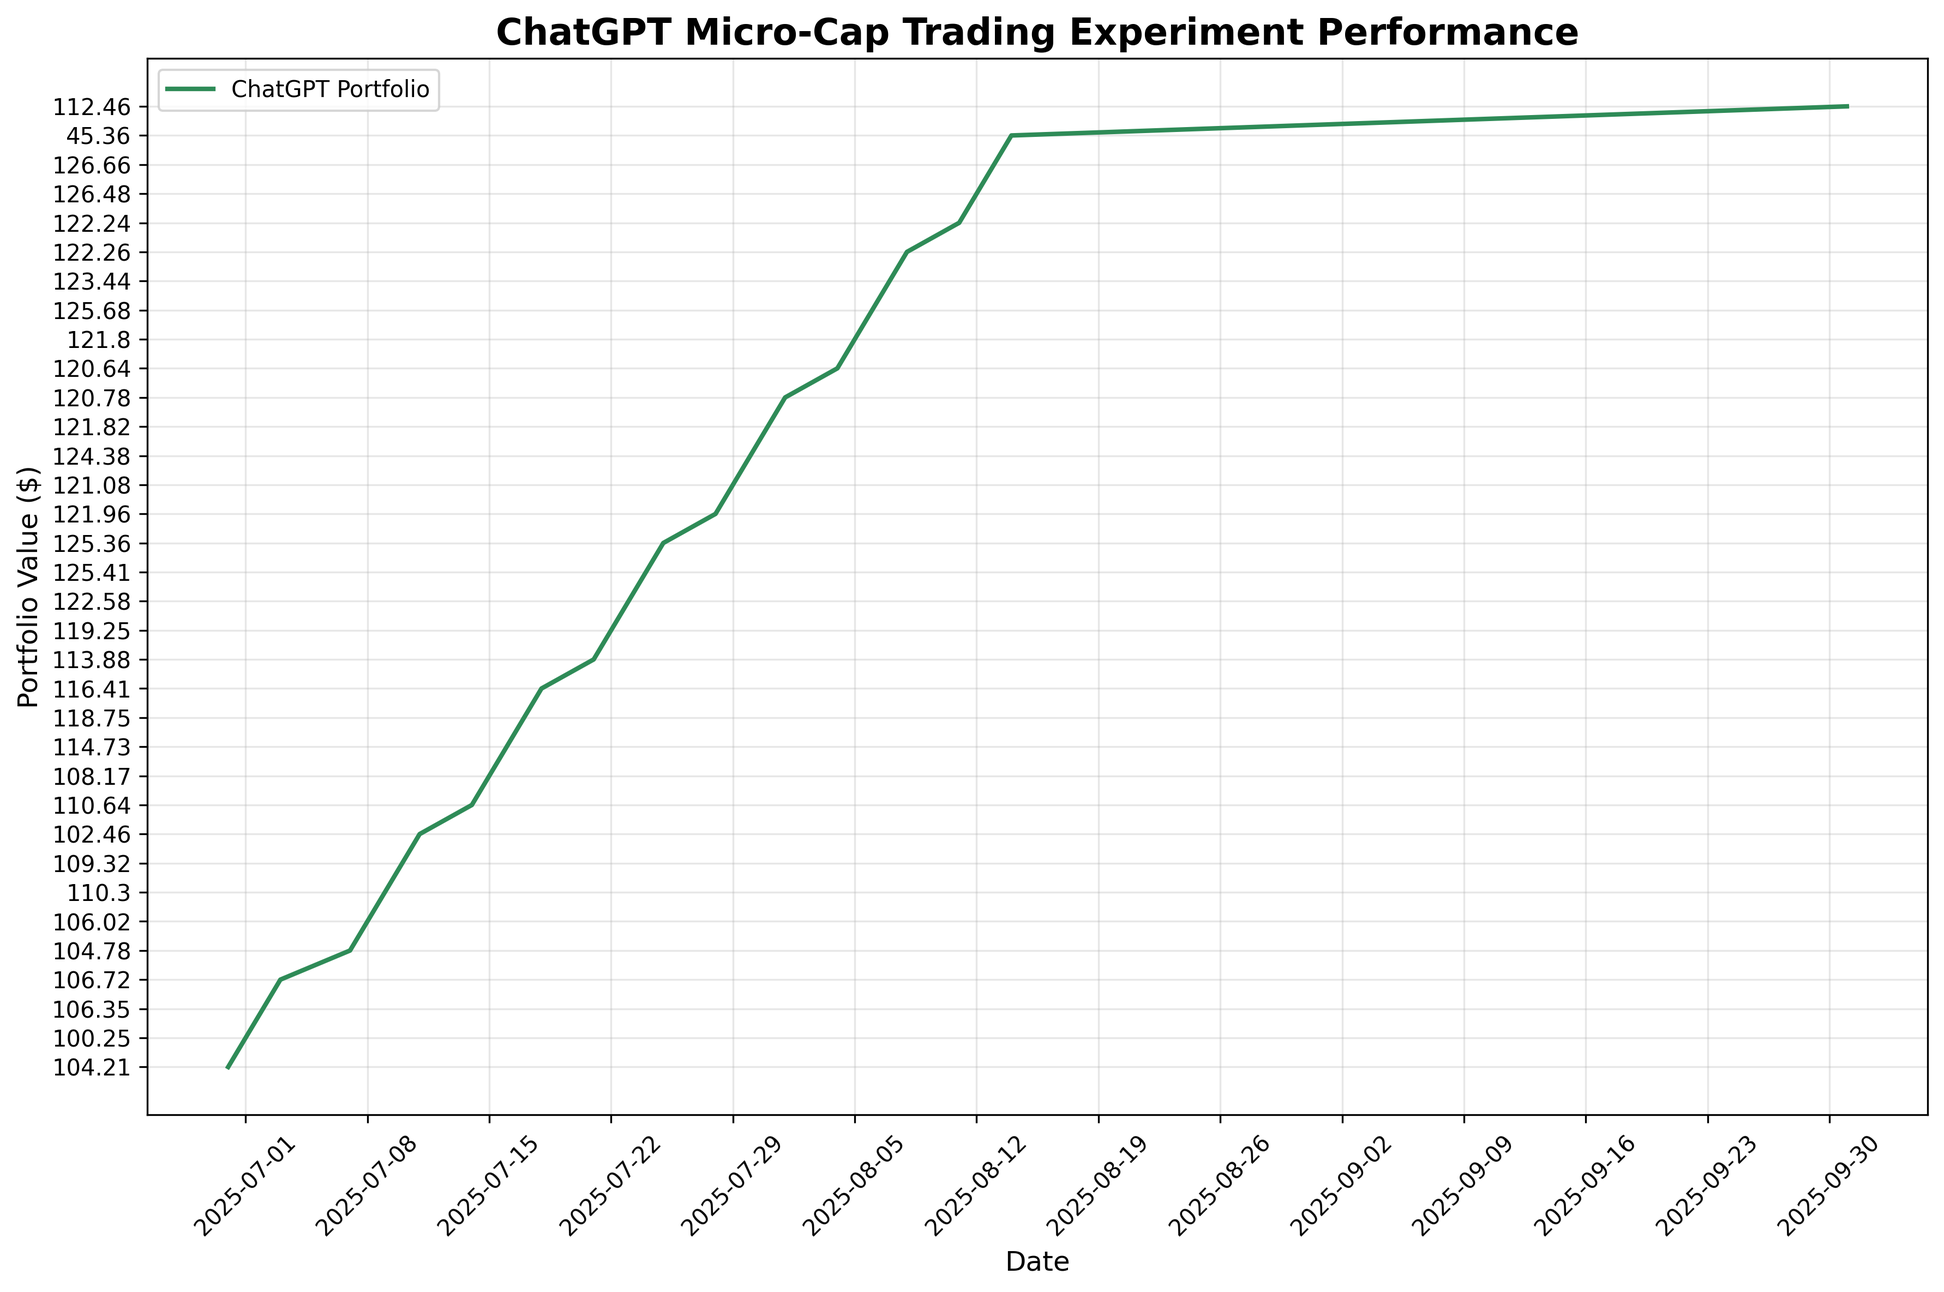
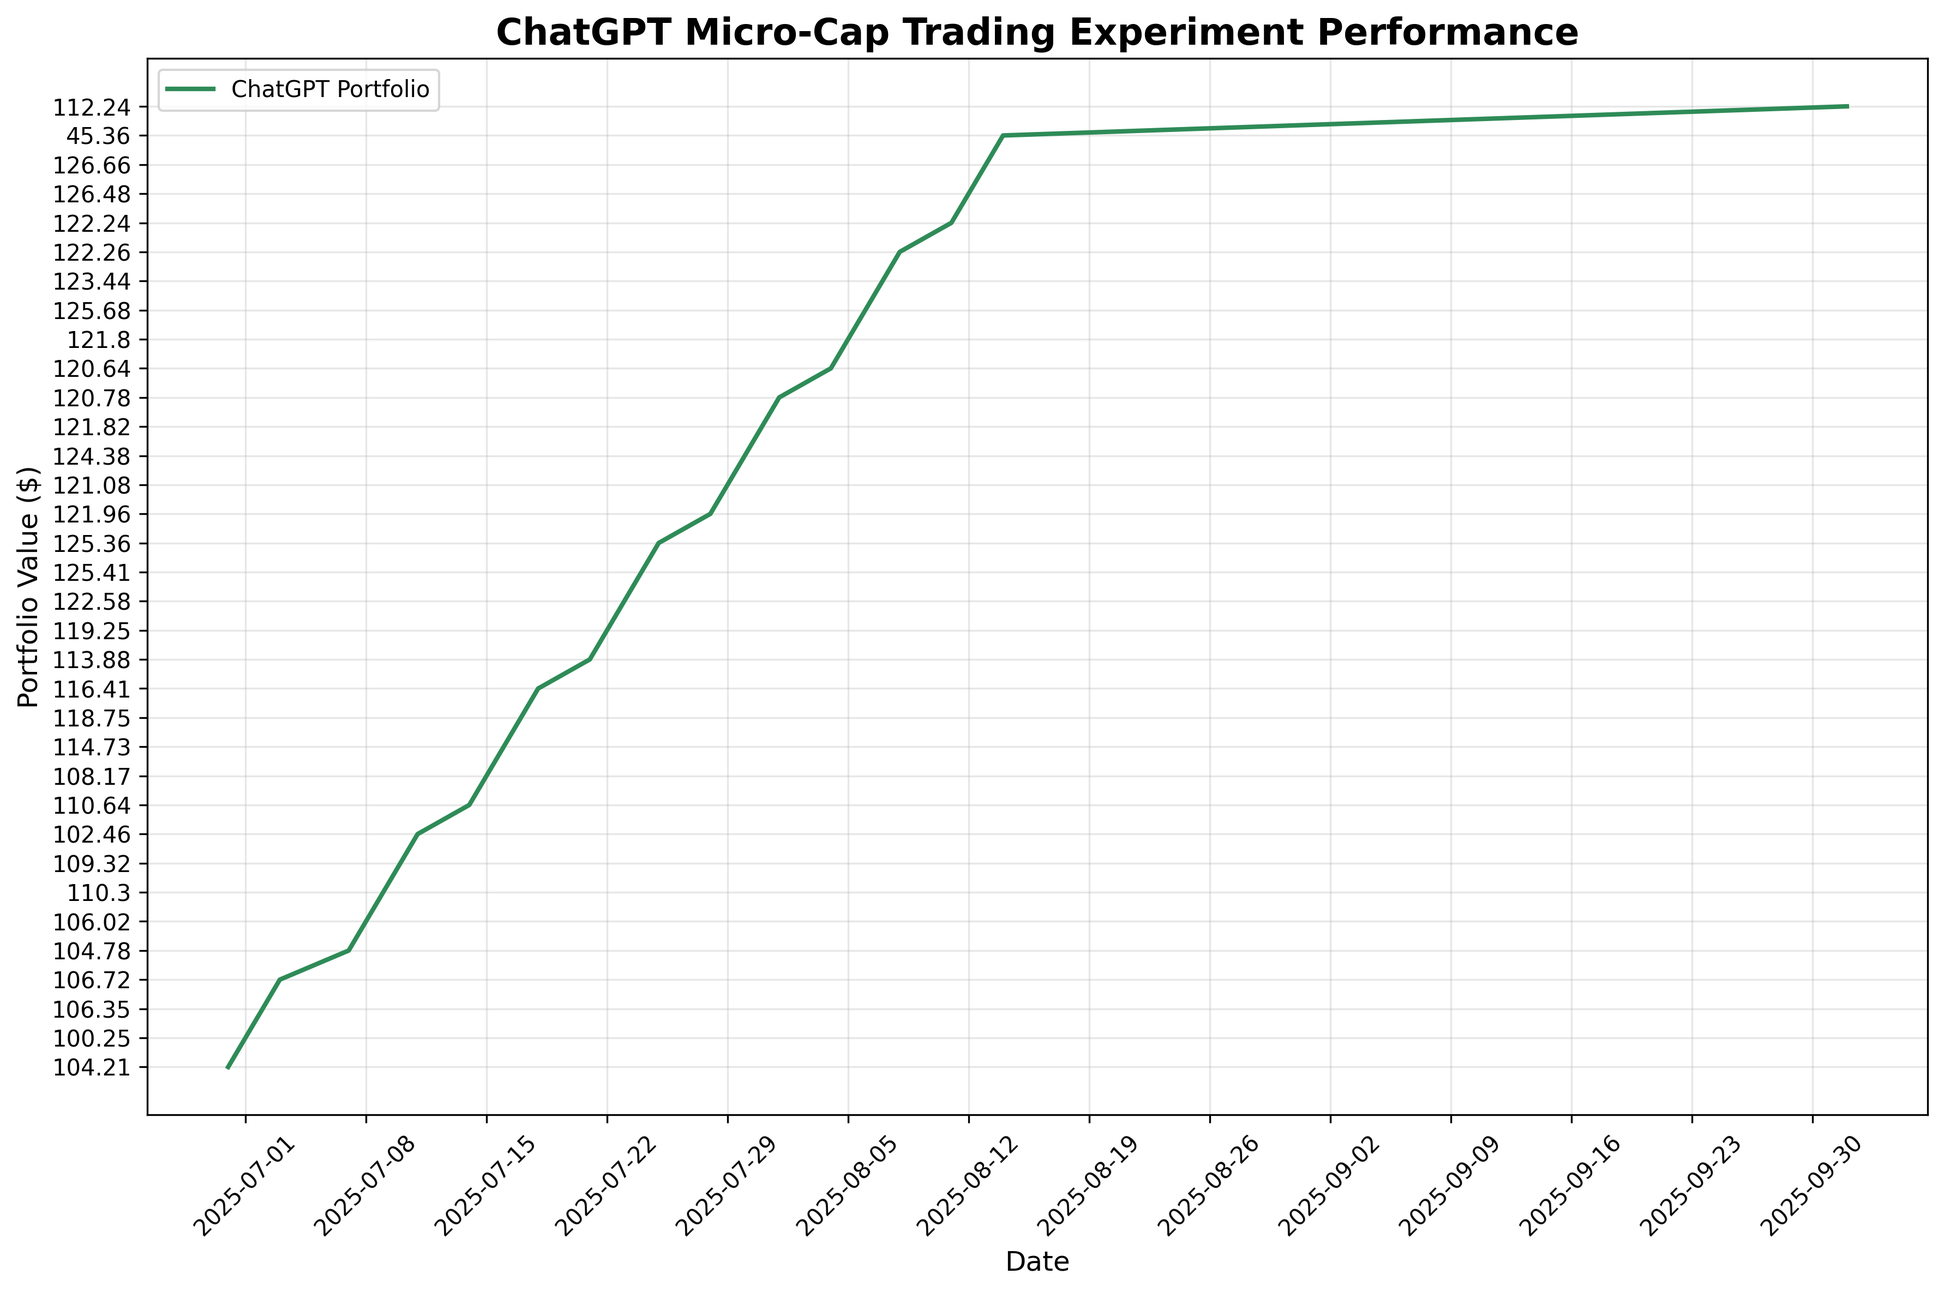
deploy: e15cad030d70fb3fbb51f9df6e22fa70c2f175c0

diff --git a/index.html b/index.html
@@ -105,7 +105,7 @@
                 <div class="stat-label">Total Trades</div>
             </div>
             <div class="stat-card">
-                <div class="stat-value" id="last-updated">2025-10-01</div>
+                <div class="stat-value" id="last-updated">2025-10-02</div>
                 <div class="stat-label">Last Updated</div>
             </div>
         </div>
@@ -160,7 +160,7 @@
     
     <script>
         // Portfolio data
-        const portfolioData = JSON.parse("[{&quot;Date&quot;: &quot;2025-08-11&quot;, &quot;Ticker&quot;: &quot;ABEO&quot;, &quot;Shares&quot;: 4.0, &quot;Buy Price&quot;: 5.77, &quot;Cost Basis&quot;: 23.08, &quot;Stop Loss&quot;: 4.9, &quot;Current Price&quot;: 6.28, &quot;Total Value&quot;: 25.12, &quot;PnL&quot;: 2.04, &quot;Action&quot;: &quot;HOLD&quot;, &quot;Cash Balance&quot;: NaN, &quot;Total Equity&quot;: NaN}, {&quot;Date&quot;: &quot;2025-08-11&quot;, &quot;Ticker&quot;: &quot;ACTU&quot;, &quot;Shares&quot;: 6.0, &quot;Buy Price&quot;: 5.75, &quot;Cost Basis&quot;: 34.5, &quot;Stop Loss&quot;: 4.89, &quot;Current Price&quot;: 8.01, &quot;Total Value&quot;: 48.06, &quot;PnL&quot;: 13.56, &quot;Action&quot;: &quot;HOLD&quot;, &quot;Cash Balance&quot;: NaN, &quot;Total Equity&quot;: NaN}, {&quot;Date&quot;: &quot;2025-08-11&quot;, &quot;Ticker&quot;: &quot;ESPR&quot;, &quot;Shares&quot;: 2.0, &quot;Buy Price&quot;: 1.91, &quot;Cost Basis&quot;: 3.82, &quot;Stop Loss&quot;: 1.6, &quot;Current Price&quot;: 1.85, &quot;Total Value&quot;: 3.7, &quot;PnL&quot;: -0.12, &quot;Action&quot;: &quot;HOLD&quot;, &quot;Cash Balance&quot;: NaN, &quot;Total Equity&quot;: NaN}, {&quot;Date&quot;: &quot;2025-08-11&quot;, &quot;Ticker&quot;: &quot;TOTAL&quot;, &quot;Shares&quot;: NaN, &quot;Buy Price&quot;: NaN, &quot;Cost Basis&quot;: NaN, &quot;Stop Loss&quot;: NaN, &quot;Current Price&quot;: NaN, &quot;Total Value&quot;: 76.88, &quot;PnL&quot;: 15.48, &quot;Action&quot;: NaN, &quot;Cash Balance&quot;: 45.36, &quot;Total Equity&quot;: &quot;122.24&quot;}, {&quot;Date&quot;: &quot;2025-08-12&quot;, &quot;Ticker&quot;: &quot;ABEO&quot;, &quot;Shares&quot;: 4.0, &quot;Buy Price&quot;: 5.77, &quot;Cost Basis&quot;: 23.08, &quot;Stop Loss&quot;: 4.9, &quot;Current Price&quot;: 6.38, &quot;Total Value&quot;: 25.52, &quot;PnL&quot;: 2.44, &quot;Action&quot;: &quot;HOLD&quot;, &quot;Cash Balance&quot;: NaN, &quot;Total Equity&quot;: NaN}, {&quot;Date&quot;: &quot;2025-08-12&quot;, &quot;Ticker&quot;: &quot;ACTU&quot;, &quot;Shares&quot;: 6.0, &quot;Buy Price&quot;: 5.75, &quot;Cost Basis&quot;: 34.5, &quot;Stop Loss&quot;: 4.89, &quot;Current Price&quot;: 8.67, &quot;Total Value&quot;: 52.02, &quot;PnL&quot;: 17.52, &quot;Action&quot;: &quot;HOLD&quot;, &quot;Cash Balance&quot;: NaN, &quot;Total Equity&quot;: NaN}, {&quot;Date&quot;: &quot;2025-08-12&quot;, &quot;Ticker&quot;: &quot;ESPR&quot;, &quot;Shares&quot;: 2.0, &quot;Buy Price&quot;: 1.91, &quot;Cost Basis&quot;: 3.82, &quot;Stop Loss&quot;: 1.6, &quot;Current Price&quot;: 1.79, &quot;Total Value&quot;: 3.58, &quot;PnL&quot;: -0.24, &quot;Action&quot;: &quot;HOLD&quot;, &quot;Cash Balance&quot;: NaN, &quot;Total Equity&quot;: NaN}, {&quot;Date&quot;: &quot;2025-08-12&quot;, &quot;Ticker&quot;: &quot;TOTAL&quot;, &quot;Shares&quot;: NaN, &quot;Buy Price&quot;: NaN, &quot;Cost Basis&quot;: NaN, &quot;Stop Loss&quot;: NaN, &quot;Current Price&quot;: NaN, &quot;Total Value&quot;: 81.12, &quot;PnL&quot;: 19.72, &quot;Action&quot;: NaN, &quot;Cash Balance&quot;: 45.36, &quot;Total Equity&quot;: &quot;126.48&quot;}, {&quot;Date&quot;: &quot;2025-08-13&quot;, &quot;Ticker&quot;: &quot;ABEO&quot;, &quot;Shares&quot;: 4.0, &quot;Buy Price&quot;: 5.77, &quot;Cost Basis&quot;: 23.08, &quot;Stop Loss&quot;: 4.9, &quot;Current Price&quot;: 6.56, &quot;Total Value&quot;: 26.24, &quot;PnL&quot;: 3.16, &quot;Action&quot;: &quot;HOLD&quot;, &quot;Cash Balance&quot;: NaN, &quot;Total Equity&quot;: NaN}, {&quot;Date&quot;: &quot;2025-08-13&quot;, &quot;Ticker&quot;: &quot;ACTU&quot;, &quot;Shares&quot;: 6.0, &quot;Buy Price&quot;: 5.75, &quot;Cost Basis&quot;: 34.5, &quot;Stop Loss&quot;: 4.89, &quot;Current Price&quot;: 8.53, &quot;Total Value&quot;: 51.18, &quot;PnL&quot;: 16.68, &quot;Action&quot;: &quot;HOLD&quot;, &quot;Cash Balance&quot;: NaN, &quot;Total Equity&quot;: NaN}, {&quot;Date&quot;: &quot;2025-08-13&quot;, &quot;Ticker&quot;: &quot;ESPR&quot;, &quot;Shares&quot;: 2.0, &quot;Buy Price&quot;: 1.91, &quot;Cost Basis&quot;: 3.82, &quot;Stop Loss&quot;: 1.6, &quot;Current Price&quot;: 1.94, &quot;Total Value&quot;: 3.88, &quot;PnL&quot;: 0.06, &quot;Action&quot;: &quot;HOLD&quot;, &quot;Cash Balance&quot;: NaN, &quot;Total Equity&quot;: NaN}, {&quot;Date&quot;: &quot;2025-08-13&quot;, &quot;Ticker&quot;: &quot;TOTAL&quot;, &quot;Shares&quot;: NaN, &quot;Buy Price&quot;: NaN, &quot;Cost Basis&quot;: NaN, &quot;Stop Loss&quot;: NaN, &quot;Current Price&quot;: NaN, &quot;Total Value&quot;: 81.3, &quot;PnL&quot;: 19.9, &quot;Action&quot;: NaN, &quot;Cash Balance&quot;: 45.36, &quot;Total Equity&quot;: &quot;126.66&quot;}, {&quot;Date&quot;: &quot;2025-08-14&quot;, &quot;Ticker&quot;: &quot;ABEO&quot;, &quot;Shares&quot;: 4.0, &quot;Buy Price&quot;: 5.77, &quot;Cost Basis&quot;: 23.08, &quot;Stop Loss&quot;: 4.9, &quot;Current Price&quot;: NaN, &quot;Total Value&quot;: NaN, &quot;PnL&quot;: NaN, &quot;Action&quot;: &quot;NO DATA&quot;, &quot;Cash Balance&quot;: NaN, &quot;Total Equity&quot;: NaN}, {&quot;Date&quot;: &quot;2025-08-14&quot;, &quot;Ticker&quot;: &quot;ACTU&quot;, &quot;Shares&quot;: 6.0, &quot;Buy Price&quot;: 5.75, &quot;Cost Basis&quot;: 34.5, &quot;Stop Loss&quot;: 4.89, &quot;Current Price&quot;: NaN, &quot;Total Value&quot;: NaN, &quot;PnL&quot;: NaN, &quot;Action&quot;: &quot;NO DATA&quot;, &quot;Cash Balance&quot;: NaN, &quot;Total Equity&quot;: NaN}, {&quot;Date&quot;: &quot;2025-08-14&quot;, &quot;Ticker&quot;: &quot;ESPR&quot;, &quot;Shares&quot;: 2.0, &quot;Buy Price&quot;: 1.91, &quot;Cost Basis&quot;: 3.82, &quot;Stop Loss&quot;: 1.6, &quot;Current Price&quot;: NaN, &quot;Total Value&quot;: NaN, &quot;PnL&quot;: NaN, &quot;Action&quot;: &quot;NO DATA&quot;, &quot;Cash Balance&quot;: NaN, &quot;Total Equity&quot;: NaN}, {&quot;Date&quot;: &quot;2025-08-14&quot;, &quot;Ticker&quot;: &quot;TOTAL&quot;, &quot;Shares&quot;: NaN, &quot;Buy Price&quot;: NaN, &quot;Cost Basis&quot;: NaN, &quot;Stop Loss&quot;: NaN, &quot;Current Price&quot;: NaN, &quot;Total Value&quot;: 0.0, &quot;PnL&quot;: 0.0, &quot;Action&quot;: NaN, &quot;Cash Balance&quot;: 45.36, &quot;Total Equity&quot;: &quot;45.36&quot;}, {&quot;Date&quot;: &quot;2025-10-01&quot;, &quot;Ticker&quot;: &quot;ABEO&quot;, &quot;Shares&quot;: 4.0, &quot;Buy Price&quot;: 5.77, &quot;Cost Basis&quot;: 23.08, &quot;Stop Loss&quot;: 4.9, &quot;Current Price&quot;: 5.28, &quot;Total Value&quot;: 21.12, &quot;PnL&quot;: -1.96, &quot;Action&quot;: &quot;HOLD&quot;, &quot;Cash Balance&quot;: NaN, &quot;Total Equity&quot;: NaN}, {&quot;Date&quot;: &quot;2025-10-01&quot;, &quot;Ticker&quot;: &quot;ACTU&quot;, &quot;Shares&quot;: 6.0, &quot;Buy Price&quot;: 5.75, &quot;Cost Basis&quot;: 34.5, &quot;Stop Loss&quot;: 4.89, &quot;Current Price&quot;: 6.7, &quot;Total Value&quot;: 40.2, &quot;PnL&quot;: 5.7, &quot;Action&quot;: &quot;HOLD&quot;, &quot;Cash Balance&quot;: NaN, &quot;Total Equity&quot;: NaN}, {&quot;Date&quot;: &quot;2025-10-01&quot;, &quot;Ticker&quot;: &quot;ESPR&quot;, &quot;Shares&quot;: 2.0, &quot;Buy Price&quot;: 1.91, &quot;Cost Basis&quot;: 3.82, &quot;Stop Loss&quot;: 1.6, &quot;Current Price&quot;: 2.89, &quot;Total Value&quot;: 5.78, &quot;PnL&quot;: 1.96, &quot;Action&quot;: &quot;HOLD&quot;, &quot;Cash Balance&quot;: NaN, &quot;Total Equity&quot;: NaN}, {&quot;Date&quot;: &quot;2025-10-01&quot;, &quot;Ticker&quot;: &quot;TOTAL&quot;, &quot;Shares&quot;: NaN, &quot;Buy Price&quot;: NaN, &quot;Cost Basis&quot;: NaN, &quot;Stop Loss&quot;: NaN, &quot;Current Price&quot;: NaN, &quot;Total Value&quot;: 67.1, &quot;PnL&quot;: 5.7, &quot;Action&quot;: NaN, &quot;Cash Balance&quot;: 45.36, &quot;Total Equity&quot;: &quot;112.46&quot;}]");
+        const portfolioData = JSON.parse("[{&quot;Date&quot;: &quot;2025-08-11&quot;, &quot;Ticker&quot;: &quot;ABEO&quot;, &quot;Shares&quot;: 4.0, &quot;Buy Price&quot;: 5.77, &quot;Cost Basis&quot;: 23.08, &quot;Stop Loss&quot;: 4.9, &quot;Current Price&quot;: 6.28, &quot;Total Value&quot;: 25.12, &quot;PnL&quot;: 2.04, &quot;Action&quot;: &quot;HOLD&quot;, &quot;Cash Balance&quot;: NaN, &quot;Total Equity&quot;: NaN}, {&quot;Date&quot;: &quot;2025-08-11&quot;, &quot;Ticker&quot;: &quot;ACTU&quot;, &quot;Shares&quot;: 6.0, &quot;Buy Price&quot;: 5.75, &quot;Cost Basis&quot;: 34.5, &quot;Stop Loss&quot;: 4.89, &quot;Current Price&quot;: 8.01, &quot;Total Value&quot;: 48.06, &quot;PnL&quot;: 13.56, &quot;Action&quot;: &quot;HOLD&quot;, &quot;Cash Balance&quot;: NaN, &quot;Total Equity&quot;: NaN}, {&quot;Date&quot;: &quot;2025-08-11&quot;, &quot;Ticker&quot;: &quot;ESPR&quot;, &quot;Shares&quot;: 2.0, &quot;Buy Price&quot;: 1.91, &quot;Cost Basis&quot;: 3.82, &quot;Stop Loss&quot;: 1.6, &quot;Current Price&quot;: 1.85, &quot;Total Value&quot;: 3.7, &quot;PnL&quot;: -0.12, &quot;Action&quot;: &quot;HOLD&quot;, &quot;Cash Balance&quot;: NaN, &quot;Total Equity&quot;: NaN}, {&quot;Date&quot;: &quot;2025-08-11&quot;, &quot;Ticker&quot;: &quot;TOTAL&quot;, &quot;Shares&quot;: NaN, &quot;Buy Price&quot;: NaN, &quot;Cost Basis&quot;: NaN, &quot;Stop Loss&quot;: NaN, &quot;Current Price&quot;: NaN, &quot;Total Value&quot;: 76.88, &quot;PnL&quot;: 15.48, &quot;Action&quot;: NaN, &quot;Cash Balance&quot;: 45.36, &quot;Total Equity&quot;: &quot;122.24&quot;}, {&quot;Date&quot;: &quot;2025-08-12&quot;, &quot;Ticker&quot;: &quot;ABEO&quot;, &quot;Shares&quot;: 4.0, &quot;Buy Price&quot;: 5.77, &quot;Cost Basis&quot;: 23.08, &quot;Stop Loss&quot;: 4.9, &quot;Current Price&quot;: 6.38, &quot;Total Value&quot;: 25.52, &quot;PnL&quot;: 2.44, &quot;Action&quot;: &quot;HOLD&quot;, &quot;Cash Balance&quot;: NaN, &quot;Total Equity&quot;: NaN}, {&quot;Date&quot;: &quot;2025-08-12&quot;, &quot;Ticker&quot;: &quot;ACTU&quot;, &quot;Shares&quot;: 6.0, &quot;Buy Price&quot;: 5.75, &quot;Cost Basis&quot;: 34.5, &quot;Stop Loss&quot;: 4.89, &quot;Current Price&quot;: 8.67, &quot;Total Value&quot;: 52.02, &quot;PnL&quot;: 17.52, &quot;Action&quot;: &quot;HOLD&quot;, &quot;Cash Balance&quot;: NaN, &quot;Total Equity&quot;: NaN}, {&quot;Date&quot;: &quot;2025-08-12&quot;, &quot;Ticker&quot;: &quot;ESPR&quot;, &quot;Shares&quot;: 2.0, &quot;Buy Price&quot;: 1.91, &quot;Cost Basis&quot;: 3.82, &quot;Stop Loss&quot;: 1.6, &quot;Current Price&quot;: 1.79, &quot;Total Value&quot;: 3.58, &quot;PnL&quot;: -0.24, &quot;Action&quot;: &quot;HOLD&quot;, &quot;Cash Balance&quot;: NaN, &quot;Total Equity&quot;: NaN}, {&quot;Date&quot;: &quot;2025-08-12&quot;, &quot;Ticker&quot;: &quot;TOTAL&quot;, &quot;Shares&quot;: NaN, &quot;Buy Price&quot;: NaN, &quot;Cost Basis&quot;: NaN, &quot;Stop Loss&quot;: NaN, &quot;Current Price&quot;: NaN, &quot;Total Value&quot;: 81.12, &quot;PnL&quot;: 19.72, &quot;Action&quot;: NaN, &quot;Cash Balance&quot;: 45.36, &quot;Total Equity&quot;: &quot;126.48&quot;}, {&quot;Date&quot;: &quot;2025-08-13&quot;, &quot;Ticker&quot;: &quot;ABEO&quot;, &quot;Shares&quot;: 4.0, &quot;Buy Price&quot;: 5.77, &quot;Cost Basis&quot;: 23.08, &quot;Stop Loss&quot;: 4.9, &quot;Current Price&quot;: 6.56, &quot;Total Value&quot;: 26.24, &quot;PnL&quot;: 3.16, &quot;Action&quot;: &quot;HOLD&quot;, &quot;Cash Balance&quot;: NaN, &quot;Total Equity&quot;: NaN}, {&quot;Date&quot;: &quot;2025-08-13&quot;, &quot;Ticker&quot;: &quot;ACTU&quot;, &quot;Shares&quot;: 6.0, &quot;Buy Price&quot;: 5.75, &quot;Cost Basis&quot;: 34.5, &quot;Stop Loss&quot;: 4.89, &quot;Current Price&quot;: 8.53, &quot;Total Value&quot;: 51.18, &quot;PnL&quot;: 16.68, &quot;Action&quot;: &quot;HOLD&quot;, &quot;Cash Balance&quot;: NaN, &quot;Total Equity&quot;: NaN}, {&quot;Date&quot;: &quot;2025-08-13&quot;, &quot;Ticker&quot;: &quot;ESPR&quot;, &quot;Shares&quot;: 2.0, &quot;Buy Price&quot;: 1.91, &quot;Cost Basis&quot;: 3.82, &quot;Stop Loss&quot;: 1.6, &quot;Current Price&quot;: 1.94, &quot;Total Value&quot;: 3.88, &quot;PnL&quot;: 0.06, &quot;Action&quot;: &quot;HOLD&quot;, &quot;Cash Balance&quot;: NaN, &quot;Total Equity&quot;: NaN}, {&quot;Date&quot;: &quot;2025-08-13&quot;, &quot;Ticker&quot;: &quot;TOTAL&quot;, &quot;Shares&quot;: NaN, &quot;Buy Price&quot;: NaN, &quot;Cost Basis&quot;: NaN, &quot;Stop Loss&quot;: NaN, &quot;Current Price&quot;: NaN, &quot;Total Value&quot;: 81.3, &quot;PnL&quot;: 19.9, &quot;Action&quot;: NaN, &quot;Cash Balance&quot;: 45.36, &quot;Total Equity&quot;: &quot;126.66&quot;}, {&quot;Date&quot;: &quot;2025-08-14&quot;, &quot;Ticker&quot;: &quot;ABEO&quot;, &quot;Shares&quot;: 4.0, &quot;Buy Price&quot;: 5.77, &quot;Cost Basis&quot;: 23.08, &quot;Stop Loss&quot;: 4.9, &quot;Current Price&quot;: NaN, &quot;Total Value&quot;: NaN, &quot;PnL&quot;: NaN, &quot;Action&quot;: &quot;NO DATA&quot;, &quot;Cash Balance&quot;: NaN, &quot;Total Equity&quot;: NaN}, {&quot;Date&quot;: &quot;2025-08-14&quot;, &quot;Ticker&quot;: &quot;ACTU&quot;, &quot;Shares&quot;: 6.0, &quot;Buy Price&quot;: 5.75, &quot;Cost Basis&quot;: 34.5, &quot;Stop Loss&quot;: 4.89, &quot;Current Price&quot;: NaN, &quot;Total Value&quot;: NaN, &quot;PnL&quot;: NaN, &quot;Action&quot;: &quot;NO DATA&quot;, &quot;Cash Balance&quot;: NaN, &quot;Total Equity&quot;: NaN}, {&quot;Date&quot;: &quot;2025-08-14&quot;, &quot;Ticker&quot;: &quot;ESPR&quot;, &quot;Shares&quot;: 2.0, &quot;Buy Price&quot;: 1.91, &quot;Cost Basis&quot;: 3.82, &quot;Stop Loss&quot;: 1.6, &quot;Current Price&quot;: NaN, &quot;Total Value&quot;: NaN, &quot;PnL&quot;: NaN, &quot;Action&quot;: &quot;NO DATA&quot;, &quot;Cash Balance&quot;: NaN, &quot;Total Equity&quot;: NaN}, {&quot;Date&quot;: &quot;2025-08-14&quot;, &quot;Ticker&quot;: &quot;TOTAL&quot;, &quot;Shares&quot;: NaN, &quot;Buy Price&quot;: NaN, &quot;Cost Basis&quot;: NaN, &quot;Stop Loss&quot;: NaN, &quot;Current Price&quot;: NaN, &quot;Total Value&quot;: 0.0, &quot;PnL&quot;: 0.0, &quot;Action&quot;: NaN, &quot;Cash Balance&quot;: 45.36, &quot;Total Equity&quot;: &quot;45.36&quot;}, {&quot;Date&quot;: &quot;2025-10-02&quot;, &quot;Ticker&quot;: &quot;ABEO&quot;, &quot;Shares&quot;: 4.0, &quot;Buy Price&quot;: 5.77, &quot;Cost Basis&quot;: 23.08, &quot;Stop Loss&quot;: 4.9, &quot;Current Price&quot;: 5.2, &quot;Total Value&quot;: 20.8, &quot;PnL&quot;: -2.28, &quot;Action&quot;: &quot;HOLD&quot;, &quot;Cash Balance&quot;: NaN, &quot;Total Equity&quot;: NaN}, {&quot;Date&quot;: &quot;2025-10-02&quot;, &quot;Ticker&quot;: &quot;ACTU&quot;, &quot;Shares&quot;: 6.0, &quot;Buy Price&quot;: 5.75, &quot;Cost Basis&quot;: 34.5, &quot;Stop Loss&quot;: 4.89, &quot;Current Price&quot;: 6.72, &quot;Total Value&quot;: 40.32, &quot;PnL&quot;: 5.82, &quot;Action&quot;: &quot;HOLD&quot;, &quot;Cash Balance&quot;: NaN, &quot;Total Equity&quot;: NaN}, {&quot;Date&quot;: &quot;2025-10-02&quot;, &quot;Ticker&quot;: &quot;ESPR&quot;, &quot;Shares&quot;: 2.0, &quot;Buy Price&quot;: 1.91, &quot;Cost Basis&quot;: 3.82, &quot;Stop Loss&quot;: 1.6, &quot;Current Price&quot;: 2.88, &quot;Total Value&quot;: 5.76, &quot;PnL&quot;: 1.94, &quot;Action&quot;: &quot;HOLD&quot;, &quot;Cash Balance&quot;: NaN, &quot;Total Equity&quot;: NaN}, {&quot;Date&quot;: &quot;2025-10-02&quot;, &quot;Ticker&quot;: &quot;TOTAL&quot;, &quot;Shares&quot;: NaN, &quot;Buy Price&quot;: NaN, &quot;Cost Basis&quot;: NaN, &quot;Stop Loss&quot;: NaN, &quot;Current Price&quot;: NaN, &quot;Total Value&quot;: 66.88, &quot;PnL&quot;: 5.48, &quot;Action&quot;: NaN, &quot;Cash Balance&quot;: 45.36, &quot;Total Equity&quot;: &quot;112.24&quot;}]");
         const tradeData = JSON.parse("[{&quot;Date&quot;: &quot;2025-07-07&quot;, &quot;Ticker&quot;: &quot;CSAI&quot;, &quot;Shares Bought&quot;: NaN, &quot;Buy Price&quot;: NaN, &quot;Cost Basis&quot;: 1.9, &quot;PnL&quot;: 5.7, &quot;Reason&quot;: &quot;MANUAL SELL - Rotated into AZTR&quot;, &quot;Shares Sold&quot;: 15.0, &quot;Sell Price&quot;: 2.28}, {&quot;Date&quot;: &quot;2025-07-08&quot;, &quot;Ticker&quot;: &quot;IINN&quot;, &quot;Shares Bought&quot;: 20.0, &quot;Buy Price&quot;: 1.5, &quot;Cost Basis&quot;: 30.0, &quot;PnL&quot;: 0.0, &quot;Reason&quot;: &quot;MANUAL BUY - New position&quot;, &quot;Shares Sold&quot;: NaN, &quot;Sell Price&quot;: NaN}, {&quot;Date&quot;: &quot;2025-07-21&quot;, &quot;Ticker&quot;: &quot;CADL&quot;, &quot;Shares Bought&quot;: NaN, &quot;Buy Price&quot;: NaN, &quot;Cost Basis&quot;: 25.2, &quot;PnL&quot;: 8.5, &quot;Reason&quot;: &quot;MANUAL SELL - GAIN CAPITAL FOR ACTU&quot;, &quot;Shares Sold&quot;: 5.0, &quot;Sell Price&quot;: 6.59}, {&quot;Date&quot;: &quot;2025-07-21&quot;, &quot;Ticker&quot;: &quot;ACTU&quot;, &quot;Shares Bought&quot;: 6.0, &quot;Buy Price&quot;: 5.75, &quot;Cost Basis&quot;: 34.5, &quot;PnL&quot;: 0.0, &quot;Reason&quot;: &quot;MANUAL BUY - New position&quot;, &quot;Shares Sold&quot;: NaN, &quot;Sell Price&quot;: NaN}, {&quot;Date&quot;: &quot;2025-07-28&quot;, &quot;Ticker&quot;: &quot;IINN&quot;, &quot;Shares Bought&quot;: NaN, &quot;Buy Price&quot;: NaN, &quot;Cost Basis&quot;: 9.0, &quot;PnL&quot;: -0.5400000000000009, &quot;Reason&quot;: &quot;MANUAL SELL - POSITION REDUCTION&quot;, &quot;Shares Sold&quot;: 6.0, &quot;Sell Price&quot;: 1.41}, {&quot;Date&quot;: &quot;2025-07-29&quot;, &quot;Ticker&quot;: &quot;AZTR&quot;, &quot;Shares Bought&quot;: NaN, &quot;Buy Price&quot;: NaN, &quot;Cost Basis&quot;: 13.75, &quot;PnL&quot;: -2.75, &quot;Reason&quot;: &quot;MANUAL SELL - DILUTION RISK&quot;, &quot;Shares Sold&quot;: 55.0, &quot;Sell Price&quot;: 0.2}, {&quot;Date&quot;: &quot;2025-08-01&quot;, &quot;Ticker&quot;: &quot;IINN&quot;, &quot;Shares Bought&quot;: 2.0, &quot;Buy Price&quot;: 1.74, &quot;Cost Basis&quot;: 3.48, &quot;PnL&quot;: 0.0, &quot;Reason&quot;: &quot;MANUAL BUY - New position&quot;, &quot;Shares Sold&quot;: NaN, &quot;Sell Price&quot;: NaN}, {&quot;Date&quot;: &quot;2025-08-01&quot;, &quot;Ticker&quot;: &quot;ABEO&quot;, &quot;Shares Bought&quot;: NaN, &quot;Buy Price&quot;: NaN, &quot;Cost Basis&quot;: 11.54, &quot;PnL&quot;: 1.200000000000001, &quot;Reason&quot;: &quot;MANUAL SELL - TRIM AFTER SUPPORT LOSS&quot;, &quot;Shares Sold&quot;: 2.0, &quot;Sell Price&quot;: 6.37}, {&quot;Date&quot;: &quot;2025-08-07&quot;, &quot;Ticker&quot;: &quot;ESPR&quot;, &quot;Shares Bought&quot;: 2.0, &quot;Buy Price&quot;: 1.91, &quot;Cost Basis&quot;: 3.82, &quot;PnL&quot;: 0.0, &quot;Reason&quot;: &quot;MANUAL BUY - New position&quot;, &quot;Shares Sold&quot;: NaN, &quot;Sell Price&quot;: NaN}, {&quot;Date&quot;: &quot;2025-08-08&quot;, &quot;Ticker&quot;: &quot;IINN&quot;, &quot;Shares Bought&quot;: NaN, &quot;Buy Price&quot;: NaN, &quot;Cost Basis&quot;: 1.5, &quot;PnL&quot;: -6.4, &quot;Reason&quot;: &quot;AUTOMATED SELL - STOPLOSS TRIGGERED&quot;, &quot;Shares Sold&quot;: 16.0, &quot;Sell Price&quot;: 1.1}]");
         
         // Update total equity
